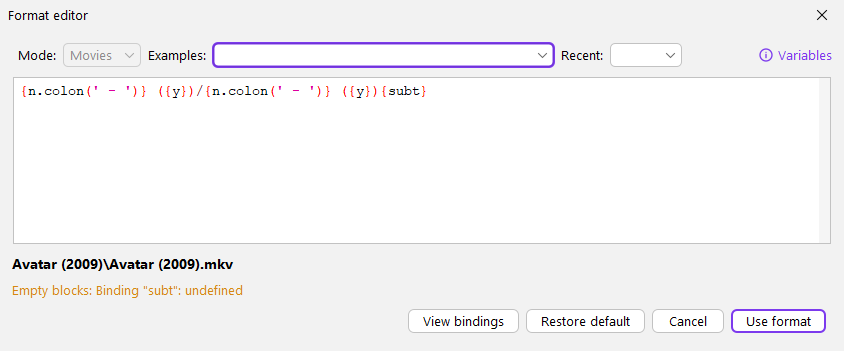
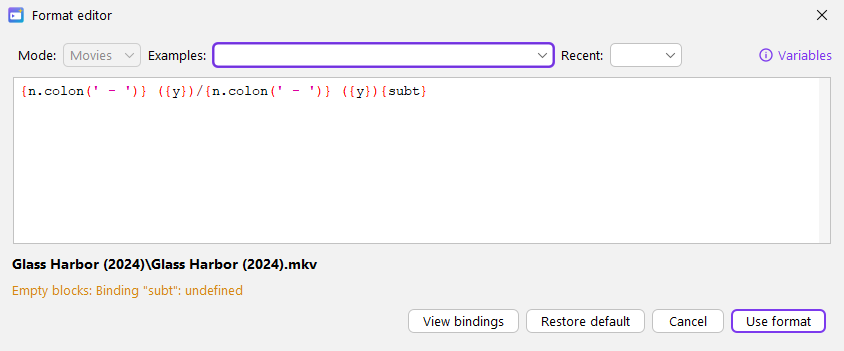
MediaRenamer 2.5.2: invented samples in the format editor
The format editor previews an invented movie, series and song (no real titles
and no online ids) when no match is selected. The format editor screenshot is
generated by UiSnapshot with the same invented data.

Changed region(s): [[0.0, 0.7407, 0.4005, 0.7692], [0.0, 0.0, 0.154, 0.0855]]

diff --git a/src/main/java/com/mediarenamer/ui/FormatDialog.java b/src/main/java/com/mediarenamer/ui/FormatDialog.java
@@ -296,28 +296,41 @@ public class FormatDialog extends JDialog {
         if (sample != null && RenamePanel.modeOf(sample) == currentMode()) {
             return sample;
         }
-        SeriesInfo s = new SeriesInfo("TheMovieDB::TV", SortOrder.Airdate, Locale.US, 1396);
-        s.setName("Breaking Bad");
-        s.setStartDate(new SimpleDate(2008, 1, 20));
-        s.setGenres(List.of("Drama", "Crime"));
-        return switch (currentMode()) {
-            case Episode -> new Episode("Breaking Bad", 1, 1, "Pilot", 1, null, new SimpleDate(2008, 1, 20), 62085, s);
-            case Movie -> new Movie("Avatar", List.of(), 2009, 499549, 19995, Locale.US);
-            case Music -> new com.mediarenamer.web.AudioTrack("Queen", "Bohemian Rhapsody", "A Night at the Opera", "Queen", "Bohemian Rhapsody",
-                    new SimpleDate(1975, 11, 21), 1, 1, 11, 12, null, "Rock");
-            case File -> sampleFile();
-        };
+        return fictionalSample(currentMode());
     }
 
     private File sampleFile() {
         if (sampleFile != null && sample != null && RenamePanel.modeOf(sample) == currentMode()) {
             return sampleFile;
         }
-        return new File(switch (currentMode()) {
-            case Episode -> "Breaking.Bad.S01E01.720p.BluRay.x264-DEMAND.mkv";
-            case Movie -> "Avatar.2009.1080p.BluRay.x264-SPARKS.mkv";
-            case Music -> "01 bohemian rhapsody.mp3";
-            case File -> sampleFile != null ? sampleFile.getPath() : "ejemplo.mkv";
+        return currentMode() == Mode.File && sampleFile != null ? sampleFile : fictionalSampleFile(currentMode());
+    }
+
+    /**
+     * Invented sample of each mode, used when no match is selected: no real titles, names or online ids (the preview
+     * shows no third-party content, and online-only variables stay empty instead of loading another title's data).
+     */
+    static Object fictionalSample(Mode mode) {
+        SeriesInfo s = new SeriesInfo("TheMovieDB::TV", SortOrder.Airdate, Locale.US, 0);
+        s.setName("Lanterns of Vell");
+        s.setStartDate(new SimpleDate(2021, 9, 3));
+        s.setGenres(List.of("Drama", "Fantasy"));
+        return switch (mode) {
+            case Episode -> new Episode("Lanterns of Vell", 1, 1, "The Ferryman's Toll", 1, null, new SimpleDate(2021, 9, 3), null, s);
+            case Movie -> new Movie("Glass Harbor", List.of(), 2024, 0, 0, Locale.US);
+            case Music -> new com.mediarenamer.web.AudioTrack("Marlow Reyes", "Northbound Static", "Harbor Lights", "Marlow Reyes", "Northbound Static",
+                    new SimpleDate(2019, 5, 17), 1, 1, 3, 12, null, "Indie Folk");
+            case File -> fictionalSampleFile(mode);
+        };
+    }
+
+    /** File name that goes with {@link #fictionalSample(Mode)}. */
+    static File fictionalSampleFile(Mode mode) {
+        return new File(switch (mode) {
+            case Episode -> "Lanterns.of.Vell.S01E01.720p.BluRay.x264-DEMAND.mkv";
+            case Movie -> "Glass.Harbor.2024.1080p.BluRay.x264-SPARKS.mkv";
+            case Music -> "03 northbound static.mp3";
+            case File -> "ejemplo.mkv";
         });
     }
 

diff --git a/src/test/java/com/mediarenamer/ui/FormatDialogSampleTest.java b/src/test/java/com/mediarenamer/ui/FormatDialogSampleTest.java
@@ -1,0 +1,49 @@
+package com.mediarenamer.ui;
+
+import static org.junit.jupiter.api.Assertions.assertEquals;
+import static org.junit.jupiter.api.Assertions.assertNull;
+
+import com.mediarenamer.format.ExpressionFormat;
+import com.mediarenamer.format.MediaBindingBean;
+import com.mediarenamer.rename.Mode;
+import com.mediarenamer.web.Episode;
+import com.mediarenamer.web.Movie;
+
+import org.junit.jupiter.api.Test;
+
+/** The format editor previews invented samples (no real titles or online ids) when no match is selected. */
+class FormatDialogSampleTest {
+
+    private static String format(String expression, Mode mode) throws Exception {
+        return new ExpressionFormat(expression).format(new MediaBindingBean(FormatDialog.fictionalSample(mode), FormatDialog.fictionalSampleFile(mode)));
+    }
+
+    @Test
+    void movieSampleIsInvented() throws Exception {
+        assertEquals("Glass Harbor (2024)", format("{n} ({y})", Mode.Movie));
+        Movie m = (Movie) FormatDialog.fictionalSample(Mode.Movie);
+        // no ids: the preview never loads the data of a real title from TheMovieDB
+        assertEquals(0, m.getTmdbId());
+        assertEquals(0, m.getImdbId());
+    }
+
+    @Test
+    void episodeSampleIsInvented() throws Exception {
+        assertEquals("Lanterns of Vell - S01E01 - The Ferryman's Toll", format("{n} - {s00e00} - {t}", Mode.Episode));
+        Episode e = (Episode) FormatDialog.fictionalSample(Mode.Episode);
+        assertNull(e.getId());
+        assertEquals(0, e.getSeriesInfo().getId());
+    }
+
+    @Test
+    void musicSampleIsInvented() throws Exception {
+        assertEquals("Marlow Reyes - Northbound Static", format("{artist} - {t}", Mode.Music));
+    }
+
+    @Test
+    void sampleFilesMatchTheSamples() {
+        assertEquals("Glass.Harbor.2024.1080p.BluRay.x264-SPARKS.mkv", FormatDialog.fictionalSampleFile(Mode.Movie).getName());
+        assertEquals("Lanterns.of.Vell.S01E01.720p.BluRay.x264-DEMAND.mkv", FormatDialog.fictionalSampleFile(Mode.Episode).getName());
+        assertEquals("03 northbound static.mp3", FormatDialog.fictionalSampleFile(Mode.Music).getName());
+    }
+}

diff --git a/src/test/java/com/mediarenamer/ui/UiSnapshot.java b/src/test/java/com/mediarenamer/ui/UiSnapshot.java
@@ -50,7 +50,7 @@ import javax.swing.SwingUtilities;
 
 /**
  * Development tool (not a test): opens the UI with sample data and saves the PNG screenshots of the documentation
- * (main window light and dark, progress, search, details card, episode chooser, name check, conflict, history).
+ * (main window light and dark, progress, search, details card, episode chooser, name check, conflict, format editor, history).
  * <p>
  * Every title, name, synopsis and poster is invented here (posters are drawn in code), so the screenshots carry no
  * third-party content. It works offline and without API keys, on an empty temporary data folder that is deleted at
@@ -250,6 +250,10 @@ public final class UiSnapshot {
         Quality nq = new Quality(source, source.length(), 3840, 1600, "HEVC", "H.265", "HDR10", 19_800_000L, 21_400_000L, "E-AC-3", "7.1",
                 7_968_000L, modified);
         snapDialog(() -> new ConflictDialog(frame.get(), source, existing, nq, oq, 1), out.resolve("screenshot-conflict.png"));
+
+        // format editor opened from a profile, previewing its invented sample
+        snapDialog(() -> FormatDialog.forProfile(frame.get(), preset.getMode(), "{n.colon(' - ')} ({y})/{n.colon(' - ')} ({y}){subt}"),
+                out.resolve("screenshot-format.png"));
 
         // history with fictional renames: the sample movies and some episodes of the sample series
         Map<File, File> movies = new LinkedHashMap<>();

diff --git a/src/main/java/com/mediarenamer/ui/RenamePanel.java b/src/main/java/com/mediarenamer/ui/RenamePanel.java
@@ -690,7 +690,7 @@ public class RenamePanel extends JPanel {
         return Icons.file();
     }
 
-    /** Short description of the matched object: "Breaking Bad · S01E01 · Pilot", "Avatar (2009)". */
+    /** Short description of the matched object: "Lanterns of Vell · S01E01 · The Ferryman's Toll", "Glass Harbor (2024)". */
     static String describe(Object m) {
         if (m instanceof Episode e) {
             return e.getSeriesName() + "  ·  " + EpisodeFormat.S00E00.format(e) + (e.getTitle() == null ? "" : "  ·  " + e.getTitle());

diff --git a/docs/ROADMAP.md b/docs/ROADMAP.md
@@ -1,6 +1,6 @@
 # Roadmap
 
-## Current status (v2.5.1)
+## Current status (v2.5.2)
 
 | Area | Status |
 |---|---|
@@ -31,6 +31,7 @@
 | Installer smoke test in Windows Sandbox (`scripts/test-sandbox.ps1`, mixed test approach in CLAUDE.md) | ✅ v0.9.1 (12/12 steps pass: install for all users and per user, CLI, TVmaze, real rename, GUI, uninstall keeping user data) |
 | **v2.5.0**: **OMDb removed** (poor results): source, API key (Preferences/wizard), `{omdb}` variable and `--db OMDb`; profiles and preferences that used it switch to TheMovieDB, and the stored `apikey.omdb` is deleted from the preferences file on start. **Profiles**: new **Media type** combo (Movies, Series, Music) that filters the data sources and shows only the fields of that type (episode order only for series; no matching mode or language for music); the **Action** selector is gone (profiles no longer set the action, also in the CLI; the old `action` field is ignored) | ✅ v2.5 (385 tests incl. type filtering, hidden fields, type switch saved, old OMDb/action profile loaded, obsolete key removed; Profiles dialog checked with screenshots of each type on the built jar and an isolated data folder; exe/CLI 2.5.0 run with an isolated APPDATA: `-profiles` with an old OMDb/action profile, stale OMDb key removed; jar manifest 2.5.0. Not done: the exe window itself was not driven (screen access declined), so the v2.5.0 label was checked from the packaged jar, not on screen) |
 | **v2.5.1**: *About MediaRenamer* no longer shows the "Powered by Claude Code" credit (row, link and `about.poweredBy` text removed in all six languages) | ✅ v2.5.1 (386 tests incl. a check that About has no development-tool credit; About dialog checked with a screenshot of the built 2.5.1 jar and an isolated data folder; exe, zip and installer built) |
+| **v2.5.2**: no third-party content in the documentation or the format editor: the screenshots are generated by `UiSnapshot` offline, without keys, with invented titles, synopses and posters drawn in code; the format editor's sample (when no match is selected) is an invented movie, series and song with no online ids, instead of real titles | ✅ v2.5.2 (390 tests incl. `FormatDialogSampleTest`; format editor checked in the three modes with screenshots of the built 2.5.2 jar and an isolated data folder, window shows v2.5.2; exe, zip and installer built. Online-only variables (director, genres…) now stay empty in the editor preview without a selected match. The examples in FORMAT.md still use real titles as plain text) |
 | **v2.4.1**: third-party license notices for the Microsoft Store release: `THIRD-PARTY-NOTICES.txt` (Groovy + its NOTICE, bundled ANTLR 4/ASM/picocli, FlatLaf, RSyntaxTextArea, JNA + libffi, SapMachine/OpenJDK runtime, Inno Setup; exact texts from the artifacts) next to the exe, in the zip, installed by the installer (which refuses to compile without it) and in the jar; Java runtime notices kept in `runtime\legal`; *About* → **Third-party licenses** shows it; [THIRD_PARTY.md](THIRD_PARTY.md) table and Store listing text | ✅ v2.4.1 (380 tests incl. `ThirdPartyNoticesTest`; exe/zip/installer built, `build-exe.ps1` verified the folder and zip; Windows Sandbox install for all users has both the notices and `runtime\legal` (14/15 steps, the FileRenamer upgrade step fails only because no legacy FileRenamer setup is in `dist`); About and the licenses dialog checked with screenshots (English, Spanish, German) on the packaged jar and runtime with an isolated data folder. Pending: legal review of the notices before publishing, and the Store listing text has not been pasted in Partner Center) |
 | **v2.4.0**: data language chosen from a **searchable list** of every language (*Español (España)*, filter by name or tag) in Preferences, the wizard and Profiles; format editor **ⓘ Variables** link (every variable by group and the common methods in its tooltip, click = values for the sample) and an **Editor…** button in Profiles that opens it with the profile format (mode fixed by its data source); Preferences → Tools: **Choose…** for MediaInfo and fpcalc, live path check (tool or its folder, never run) and the automatic location shown, new MediaInfo path used without restarting, `tool.fpcalc` may be a folder; Preferences and Profiles **keep unsaved changes** while switching category/profile, mark them in orange and ask *Save / Discard / Cancel* when closing (Profiles: Save stores all at once); main window selects the **first row after adding files** if nothing was selected | ✅ v2.4 (373 tests; checked with a helper on the built jar and an isolated data folder: Spanish screenshots of each dialog, language search, close prompt with Cancel/Save/Discard, profile drafts saved together, Variables tooltip, tool path checks; exe 2.4.0 started with an isolated APPDATA and its CLI run (the v2.4.0 label was checked on the jar, not on the exe window). Not done: picking a file through the real Choose… dialog and typing into the language field by hand were not driven with the mouse/keyboard) |
 | **v2.3.1** Profiles dialog: Jellyfin and Plex options with the same wording (*Scan the Jellyfin/Plex libraries after each operation*), their default option shown as *(don't change)* like the other combos (= the Preferences option), and *(don't change)* shown inside the empty *Language* field | ✅ v2.3.1 (dialog checked with screenshots in Spanish and English; saved profiles keep working: the default option is still stored as an absent field) |

diff --git a/docs/DEVELOPMENT.md b/docs/DEVELOPMENT.md
@@ -75,7 +75,7 @@ powershell -ExecutionPolicy Bypass -File scripts\build-exe.ps1
 
 Development tool in `src/test/java/com/mediarenamer/ui/UiSnapshot.java`: it opens the UI with sample data and saves
 the PNGs of the documentation (main window light/dark, progress, search, details card, episode chooser, name check,
-conflict and history). **Every title, name, synopsis and poster is invented** (the posters are drawn in code), so the
+conflict, format editor and history). **Every title, name, synopsis and poster is invented** (the posters are drawn in code), so the
 screenshots carry no third-party (copyrighted) content; never regenerate them with real movies or series. It works
 offline, without API keys, on an empty temporary data folder (`%TEMP%\mediarenamer-snapshot…`) that is deleted at the
 end, so it never reads your preferences, keys or history. Put the packaged jar first so the window shows the version.
@@ -85,7 +85,7 @@ mvn -B package dependency:build-classpath -Dmdep.outputFile=target/cp.txt
 java -cp "target/MediaRenamer.jar;target/test-classes;$(cat target/cp.txt)" com.mediarenamer.ui.UiSnapshot docs/img
 ```
 
-The other screenshots (Preferences, profiles, format editor, wizard, About, licenses) are not generated by this tool;
+The other screenshots (Preferences, profiles, wizard, About, licenses) are not generated by this tool;
 take them from the app run with `-Dmediarenamer.data=<temp folder>`, never with real keys or real media.
 
 ## Tests
@@ -110,6 +110,7 @@ take them from the app run with `-Dmediarenamer.data=<temp folder>`, never with 
 | `LanguagePickerTest` | Language list (every language by name in the interface language, only `xx` / `xx-YY` tags, unique names), search ignoring case and accents and matching tags, typed text resolution, filter/commit, no match keeps the previous value, empty field = empty value |
 | `PresetsDialogTest` | Profiles: unsaved edits survive switching profile, Save stores all of them, undoing an edit clears its mark, format editor mode by data source |
 | `FormatVariablesTest` | The *Variables* tooltip lists exactly the `@Define` variables, with translated group titles |
+| `FormatDialogSampleTest` | The format editor's sample of each mode is invented (titles, file names) and carries no online ids |
 | `RenamePanelSelectionTest` | Adding files selects the first row in both lists when nothing was selected and keeps an existing selection |
 | `ToolsTest` | Tool paths of Preferences → Tools: empty = automatic, the tool or its folder accepted, other files, missing, relative and malformed paths rejected |
 | `FpcalcLookupTest` | `tool.fpcalc` may be the program or its folder; the automatic location shown in Preferences ignores the preference |

diff --git a/docs/USAGE.md b/docs/USAGE.md
@@ -111,7 +111,7 @@ MediaRenamer is opened. Do not confuse it with the *data language* (titles, over
 | Changing only the name of a row | Double click the new name, or right click → *Edit name* |
 | Removing the match of a row | Right click → *Clear match* |
 | Seeing the format variables of a row | **Bindings** (or right click → *Show bindings*) |
-| Changing the format | **Format** opens the editor with live preview. The **ⓘ Variables** link (top right) lists every variable by group and the common methods in its tooltip; clicking it shows the value of each variable for the sample file |
+| Changing the format | **Format** opens the editor with live preview. The **ⓘ Variables** link (top right) lists every variable by group and the common methods in its tooltip; clicking it shows the value of each variable for the sample file. Without a selected match the preview uses an invented sample (movie *Glass Harbor (2024)*, series *Lanterns of Vell*, song *Marlow Reyes - Northbound Static*); it has no online ids, so variables that need online data (director, genres…) stay empty there |
 
 ![Choose episode](img/screenshot-episode.png)
 
@@ -129,7 +129,7 @@ Preferences option is used). The rename action is not part of a profile: it is a
 
 - **Format → Editor…** opens the same format editor as the main window, with live preview, starting from the
   profile's format. Its mode is fixed by the profile's data source (TheMovieDB → Movies, TheMovieDB::TV → Series,
-  ID3 → Music…), with a sample file of that mode. **Use format** copies the result to the profile.
+  ID3 → Music…), with the invented sample file of that mode. **Use format** copies the result to the profile.
 - **Language** is the same searchable list as in Preferences; its first entry is *(don't change)*.
 - **New** adds an untitled profile to the list. It is not stored until you save it.
 - **Unsaved changes** are kept while you move from one profile to another. A profile with changes is shown in orange
